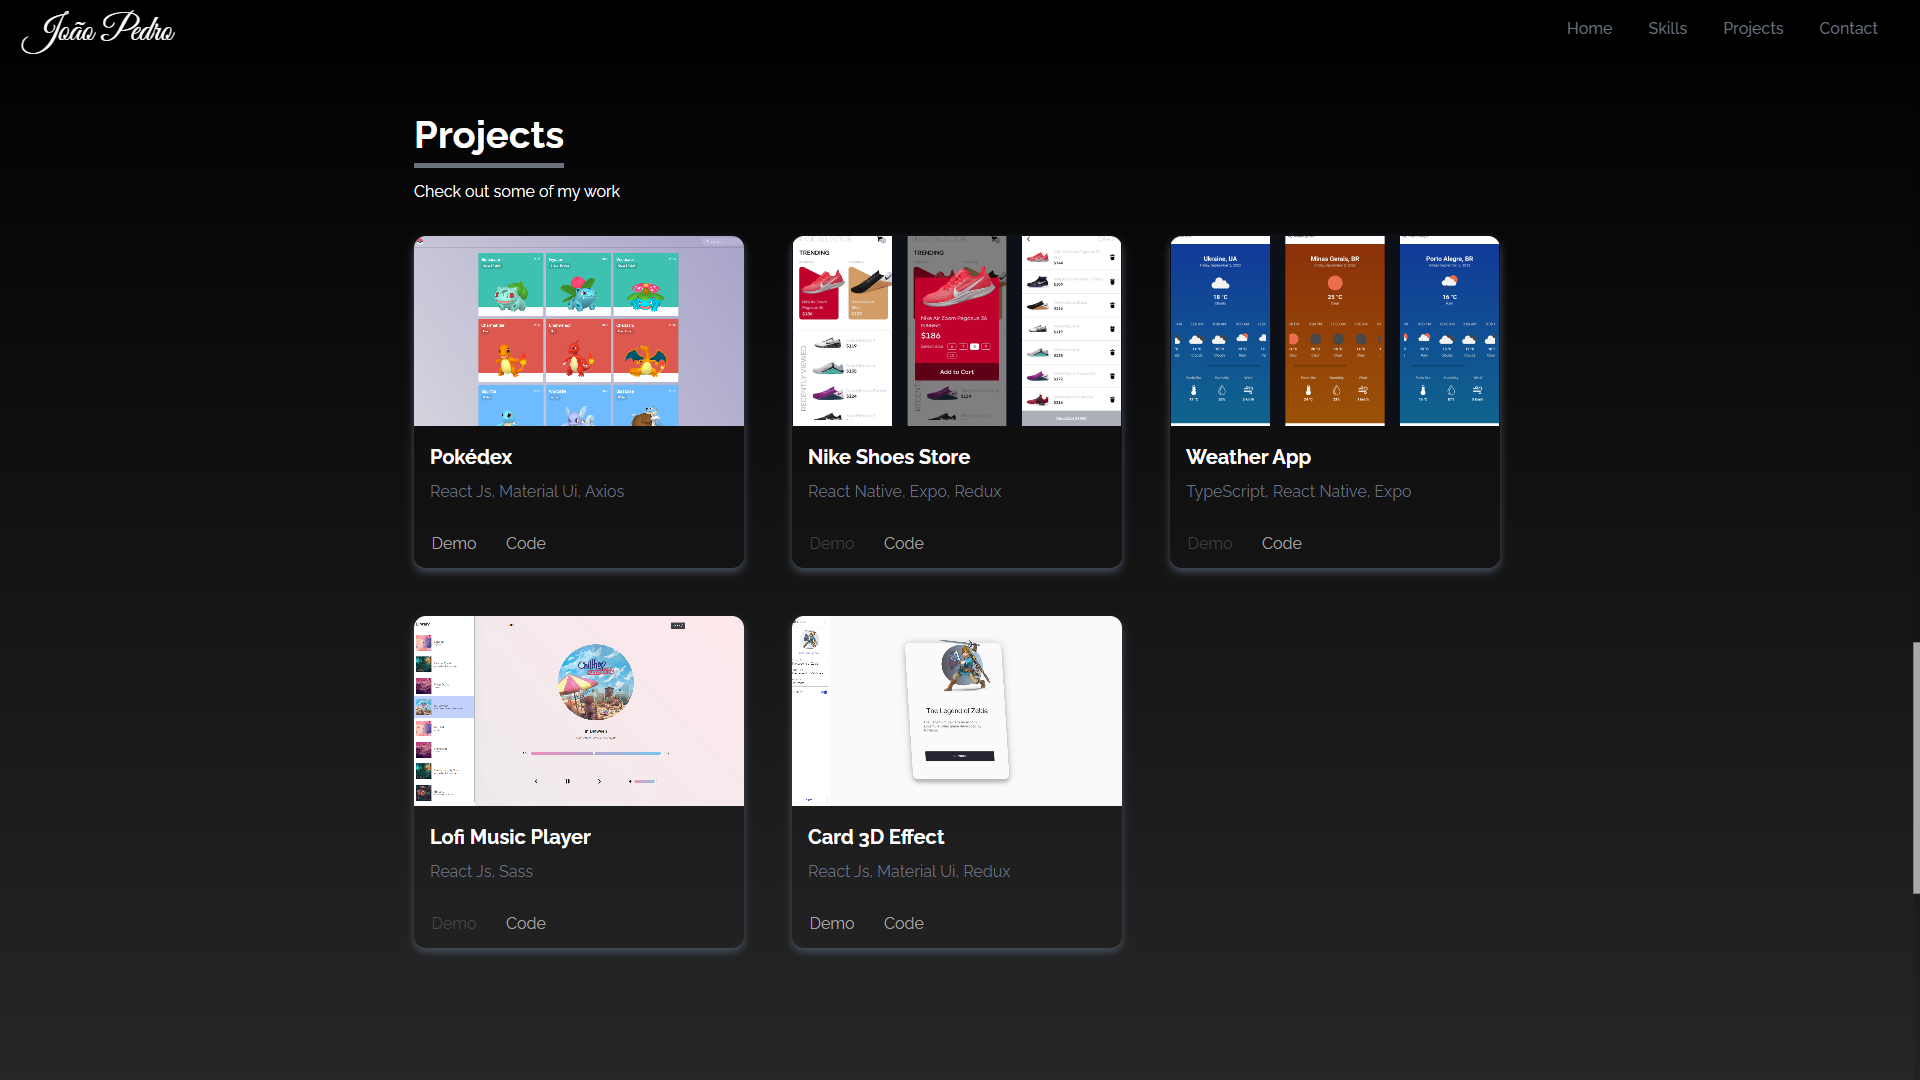
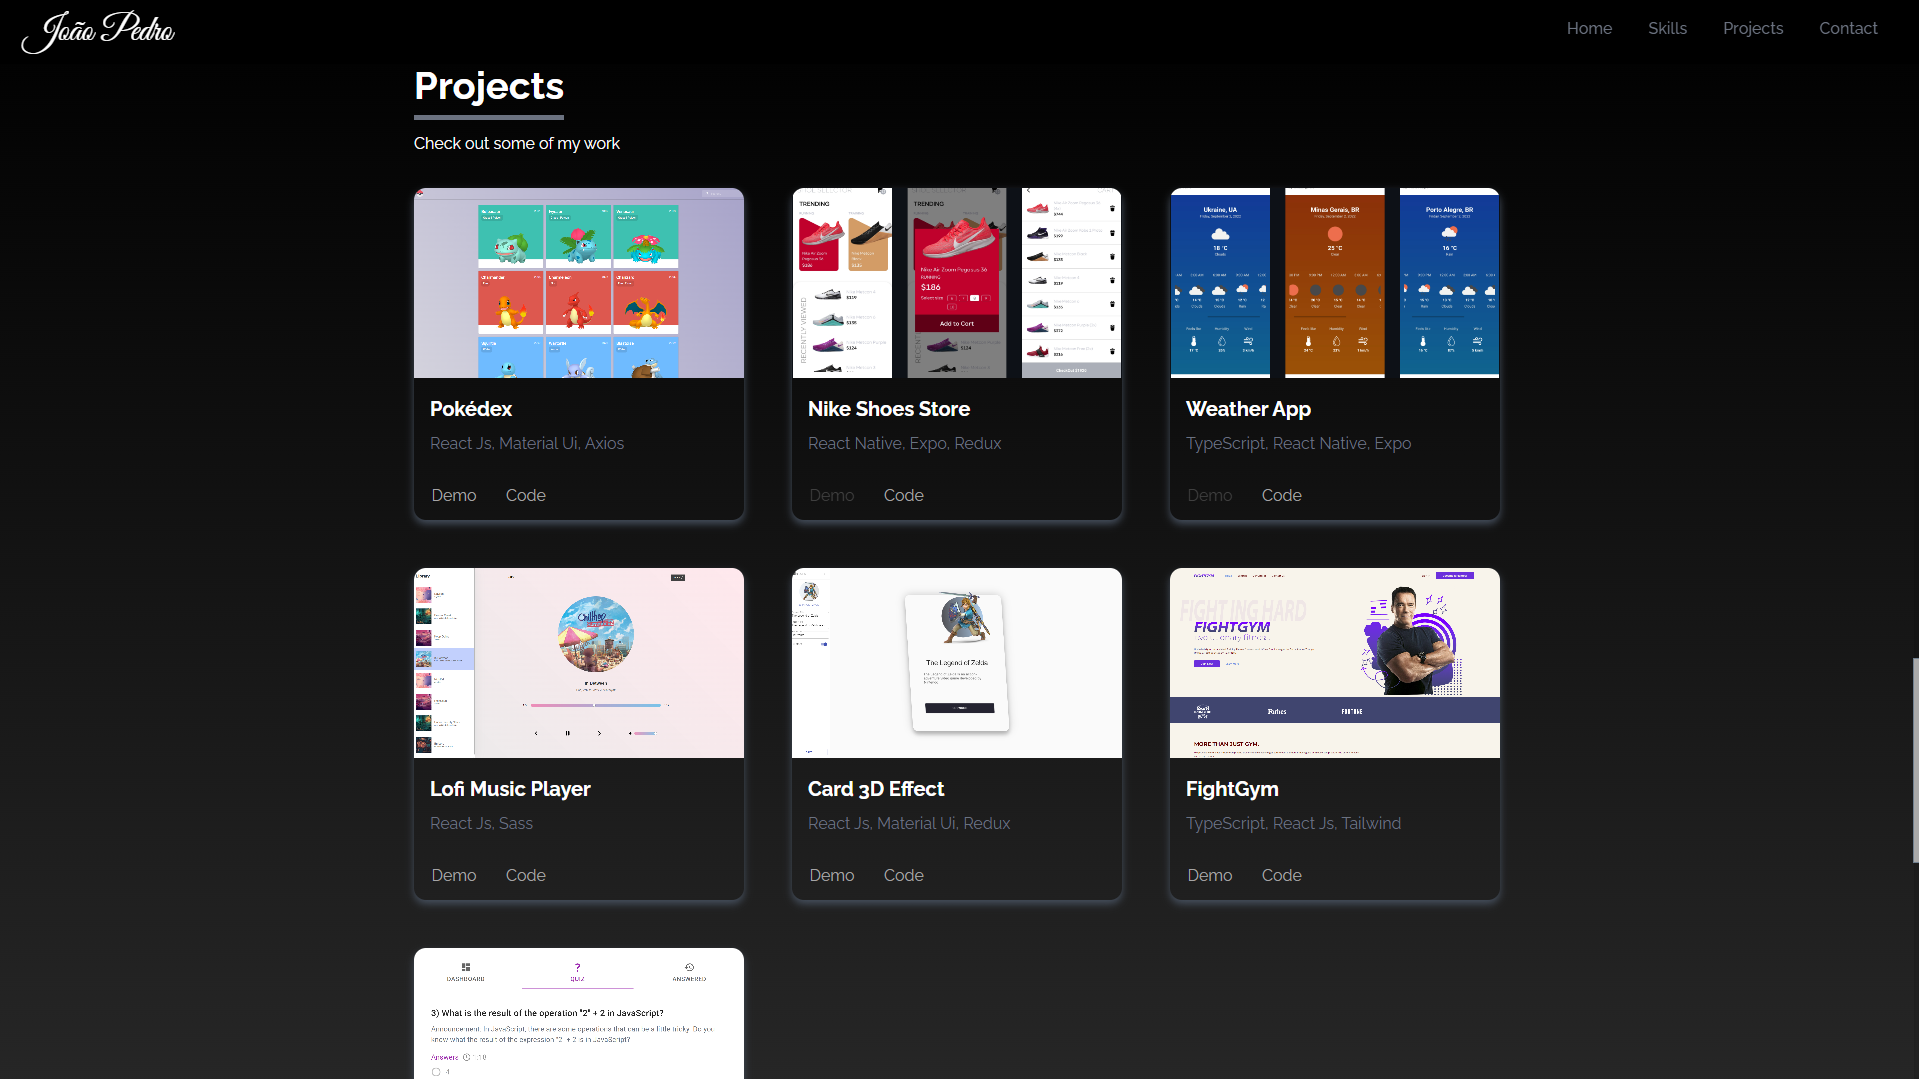
upgrade

diff --git a/src/imgs/index.js b/src/imgs/index.js
@@ -22,6 +22,7 @@ import nikeShoes from "./projects/nikeShoes.png";
 import weather from "./projects/weather.png";
 import card3D from "./projects/card3D.png";
 import fightGym from "./projects/fightGym.png";
+import questions from "./projects/questions.png";
 import fullPage from "./readMeImgs/fullPage.png";
 import skillsSection from "./readMeImgs/skillsSection.png";
 import projectsSection from "./readMeImgs/projectsSection.png";
@@ -60,6 +61,7 @@ export {
   weather,
   card3D,
   fightGym,
+  questions,
   fullPage,
   skillsSection,
   projectsSection,

diff --git a/src/data/index.js b/src/data/index.js
@@ -22,6 +22,7 @@ import {
   weather,
   card3D,
   fightGym,
+  questions,
   bitBucket,
   azureDevops,
   csharp,
@@ -259,5 +260,13 @@ export const projects = [
     technologies: "TypeScript, React Js, Tailwind",
     demoLink: "https://jpedrdo.github.io/FightGym/",
     codeLink: "https://github.com/Jpedrdo/FightGym",
+  },
+  {
+    id: 8,
+    img: questions,
+    name: "Quiz",
+    technologies: "React Js, Material Ui, Redux",
+    demoLink: "https://jpedrdo.github.io/Quiz/",
+    codeLink: "https://github.com/Jpedrdo/Quiz",
   },
 ];
